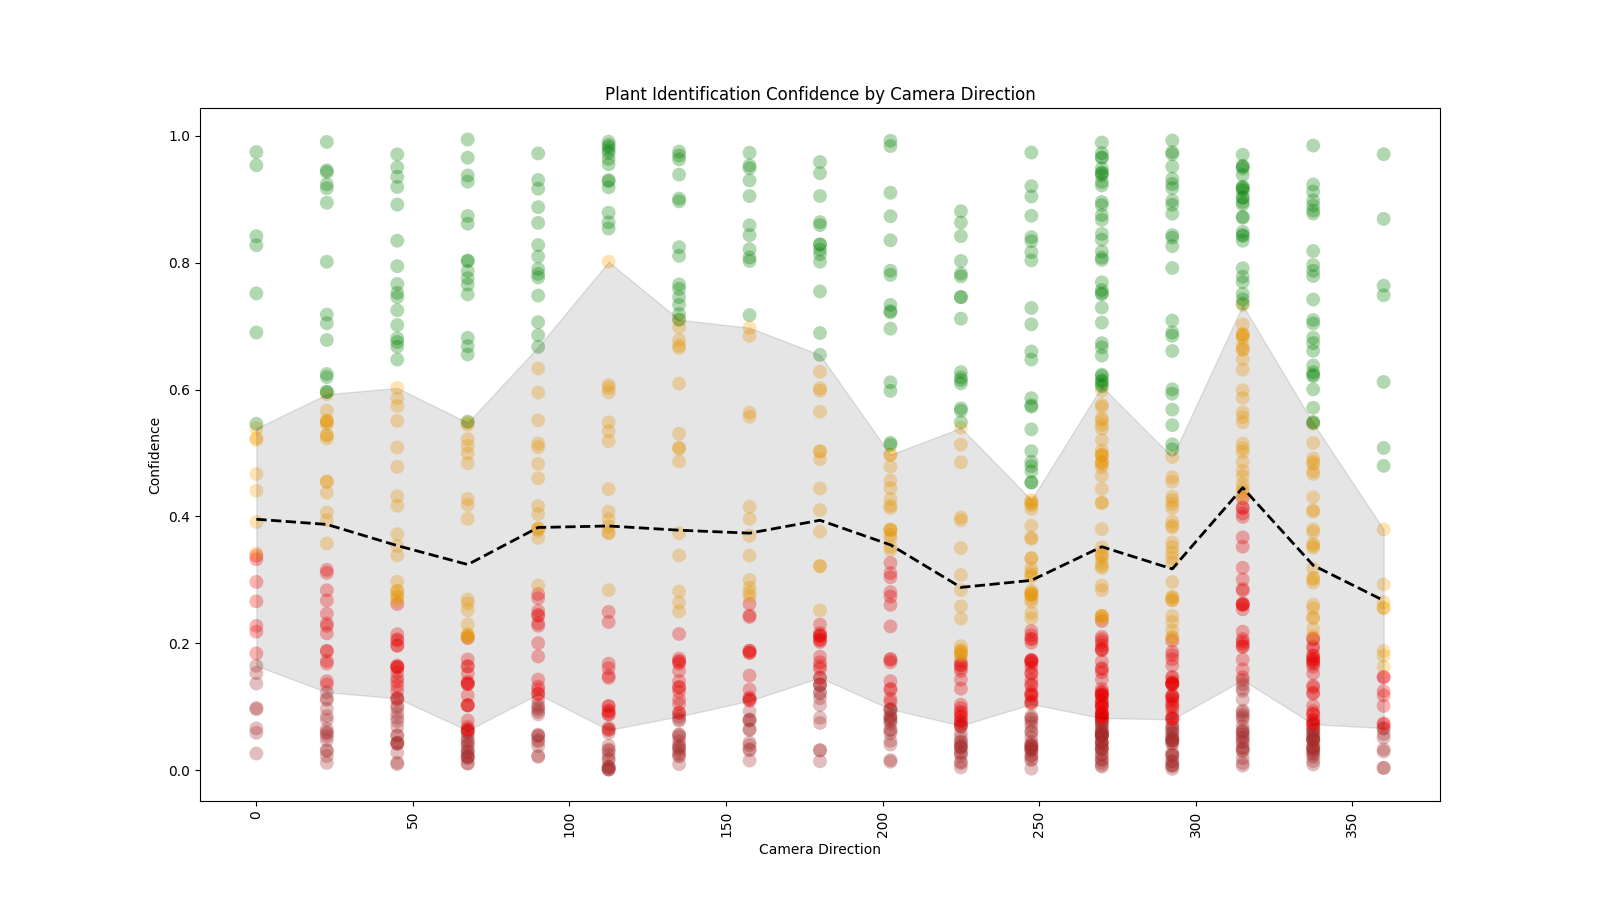
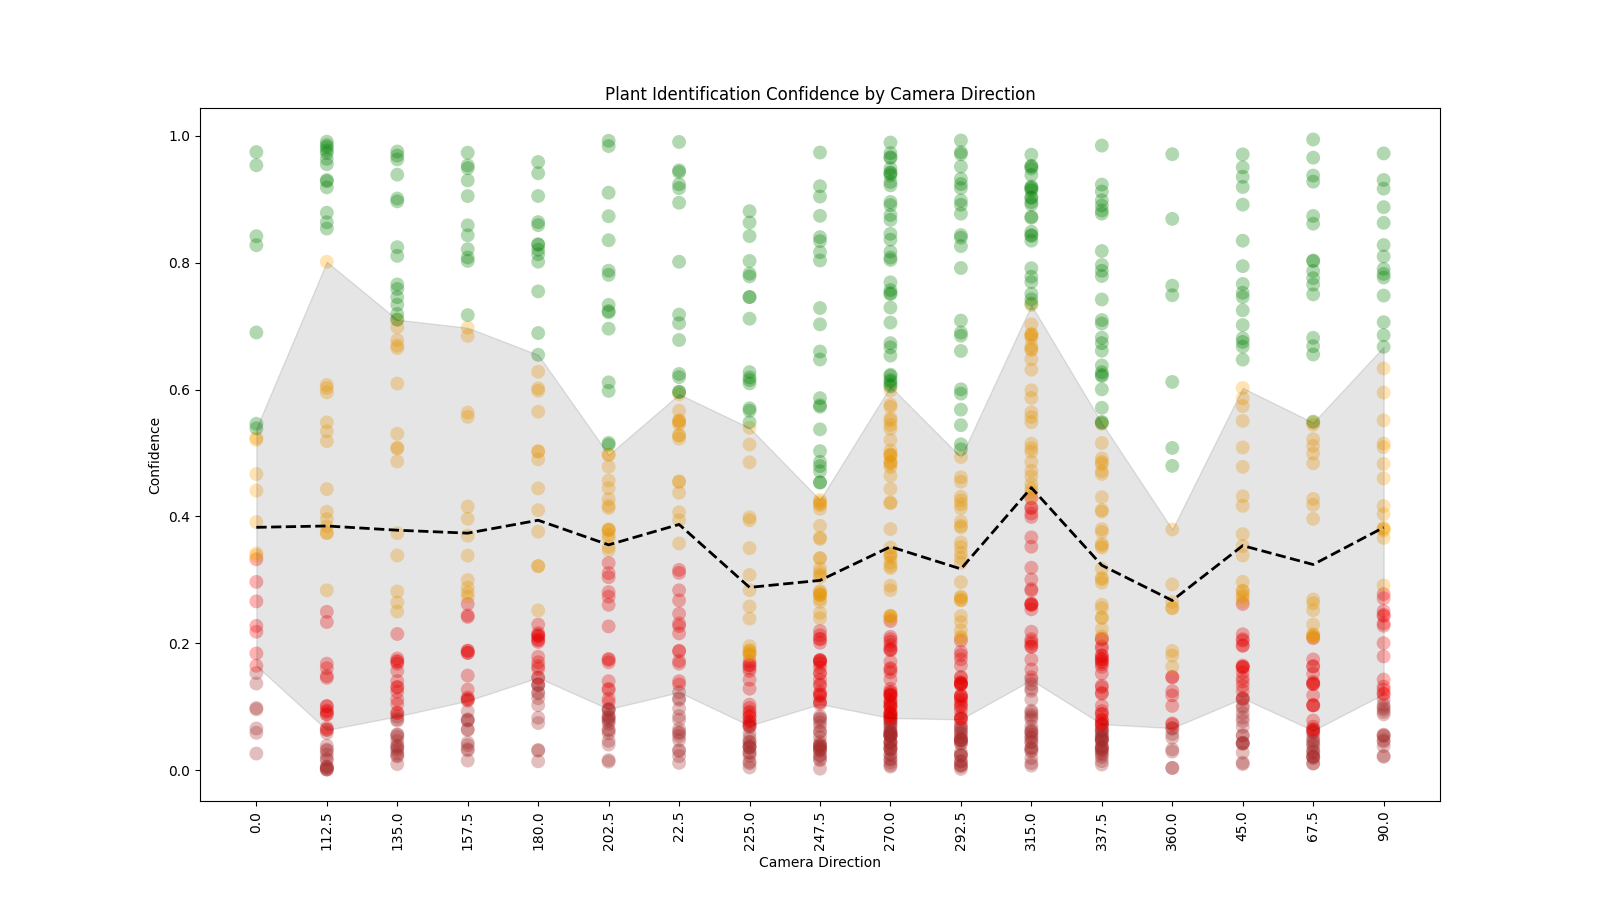
lint

diff --git a/src/lk_plants/analysis/ReadMeIdentification.py b/src/lk_plants/analysis/ReadMeIdentification.py
@@ -23,7 +23,7 @@ class ReadMeIdentification(MarkdownPage, InfoReadMe):
         plant_photo_list = PlantPhoto.list_all()
         idx = {}
         for plant_photo in plant_photo_list:
-            key = get_key(plant_photo)
+            key = str(get_key(plant_photo))
             plant_net_result = PlantNetResult.from_plant_photo(plant_photo)
             confidence = plant_net_result.top_confidence
             if not confidence:
@@ -119,7 +119,7 @@ class ReadMeIdentification(MarkdownPage, InfoReadMe):
             if plant_photo.direction is None:
                 return 0
             Q = 22.5
-            return str(round(plant_photo.direction / Q) * Q)
+            return round(plant_photo.direction / Q) * Q
 
         return self.get_lines_for_key('camera direction', get_key)
 
